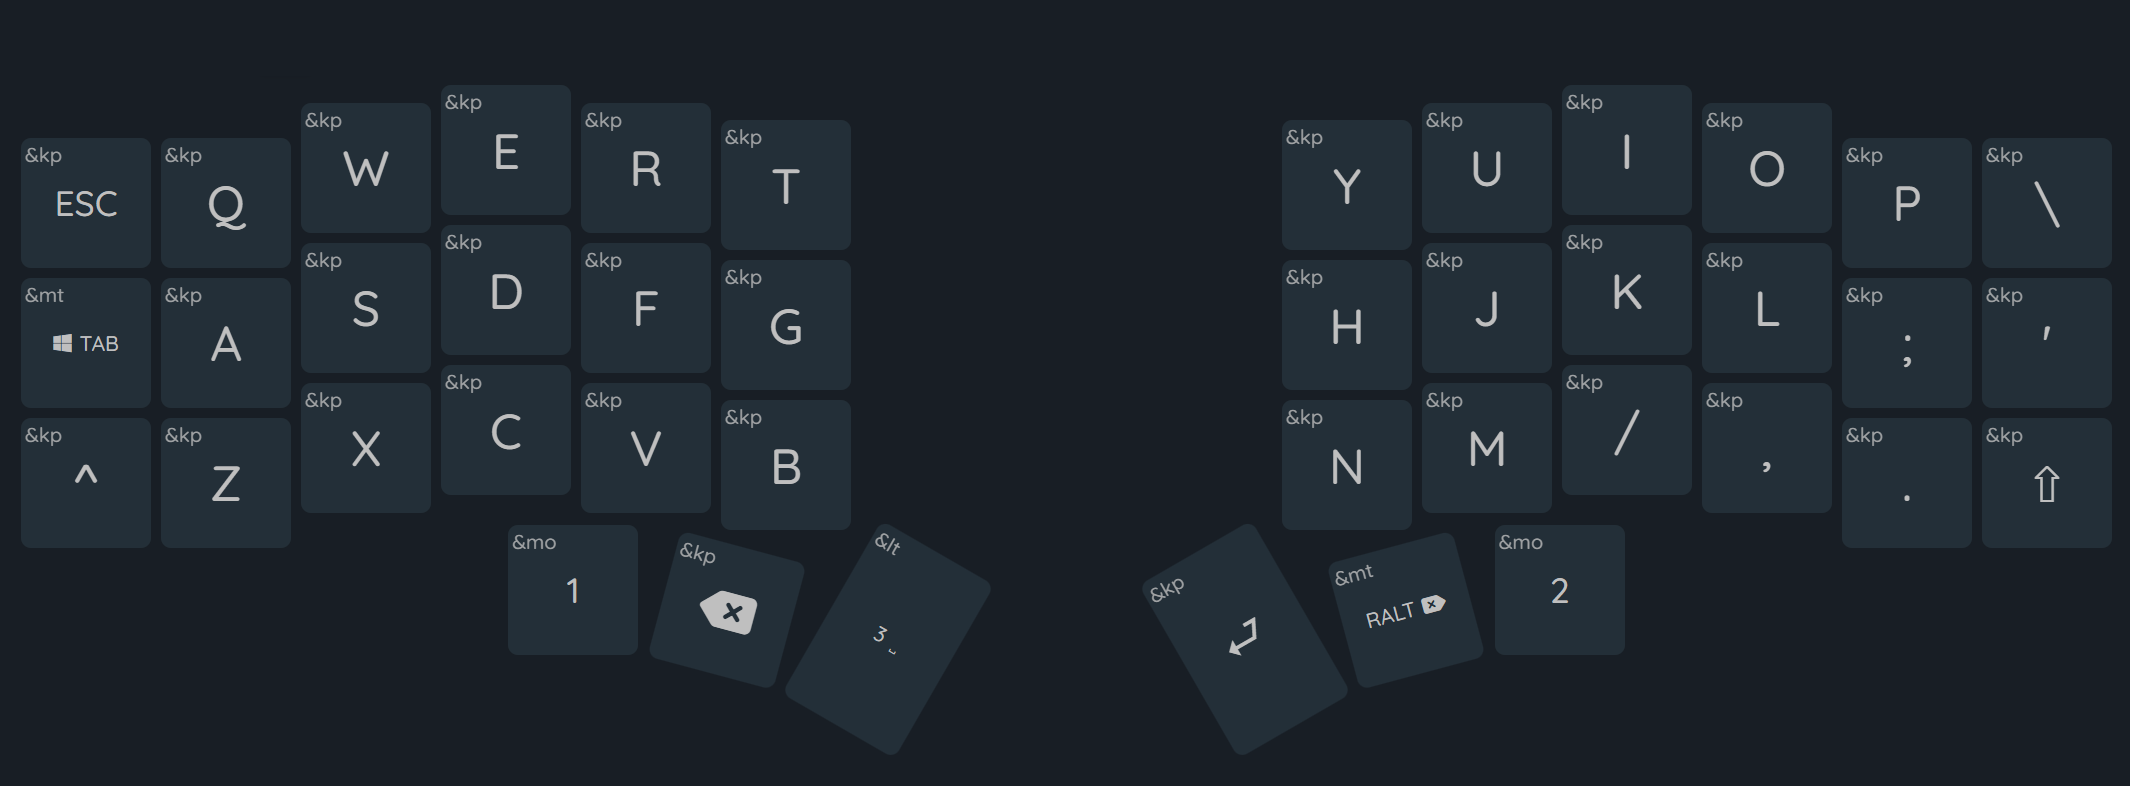
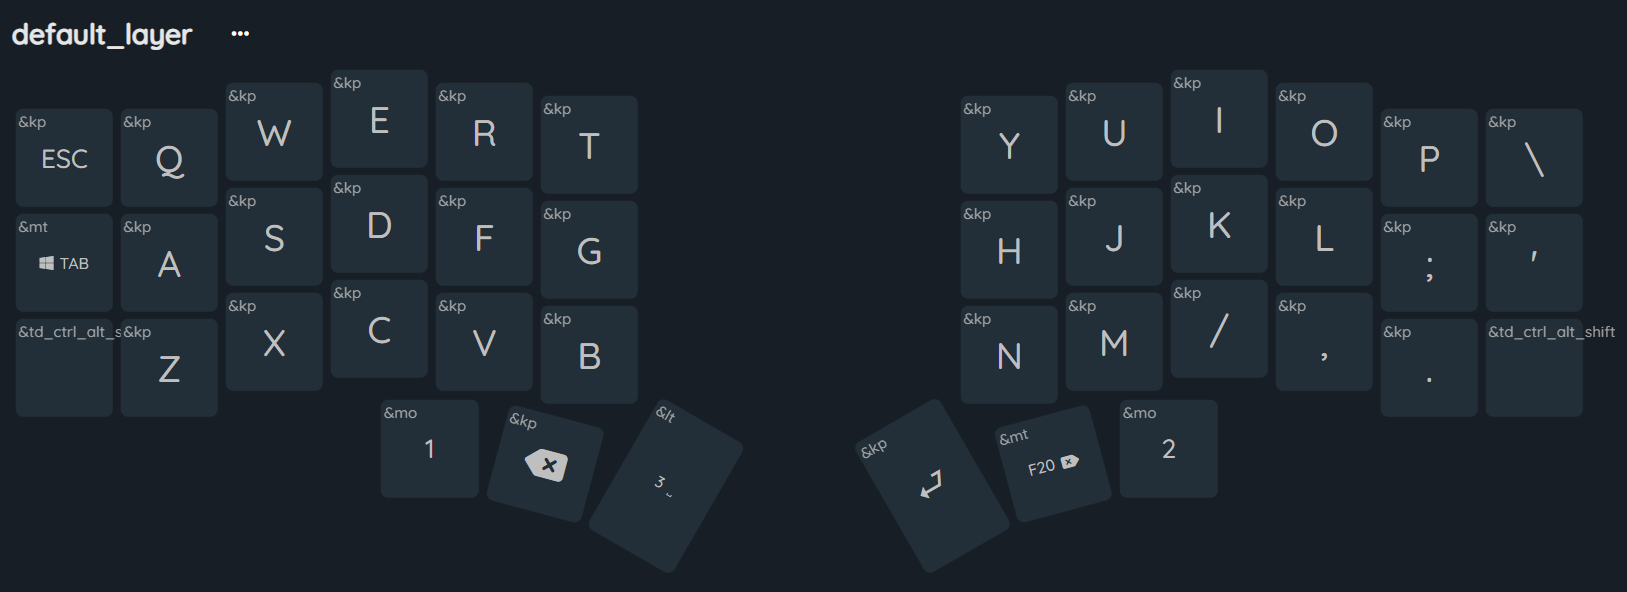
fix: add tapdance key for CTRL/ALT/SHIFT, replace ALT hold, with F20 on hold for delete key

diff --git a/README.md b/README.md
@@ -5,6 +5,8 @@ ZMK firmware/config for my wireless Corne keyboards.
 
 ### Default layer
 ![default layer key layout](docs/img/default_layer.png)
+- $td_ctrl_alt_shift: hold shift, tap once cancel, tap 2x CTRL hold, tap 3x ALT hold 
+- F20: Function key 20, used for GlazeWM control
 
 ### Symbols layer (1)
 ![symbols layer key layout](docs/img/symbols_layer.png)
